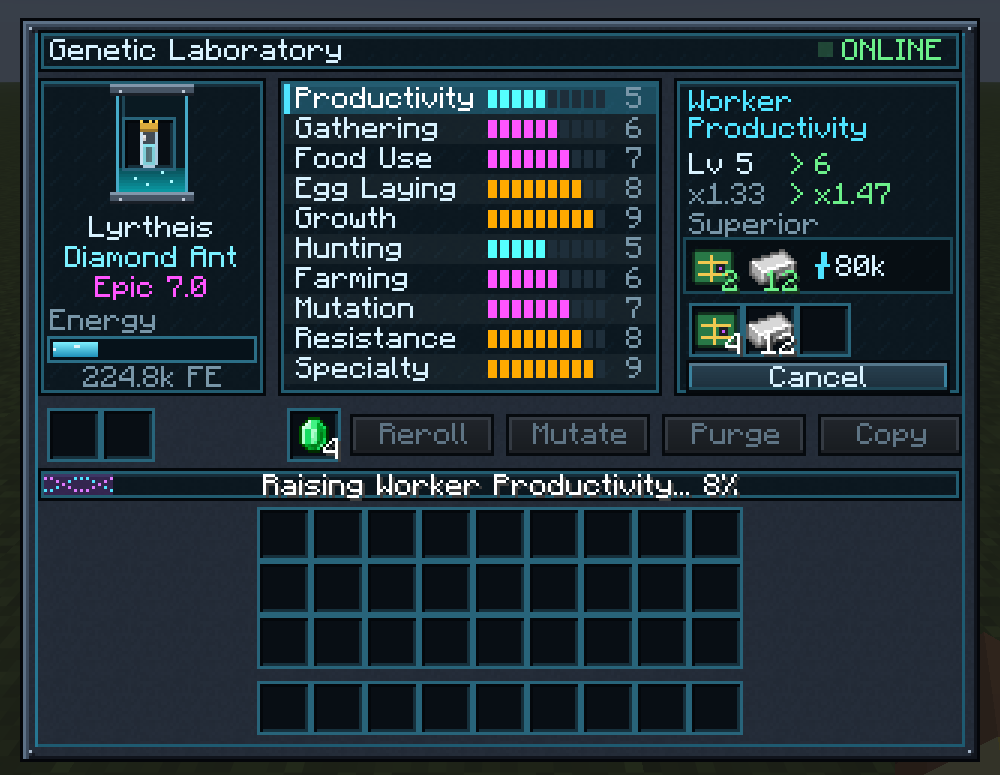
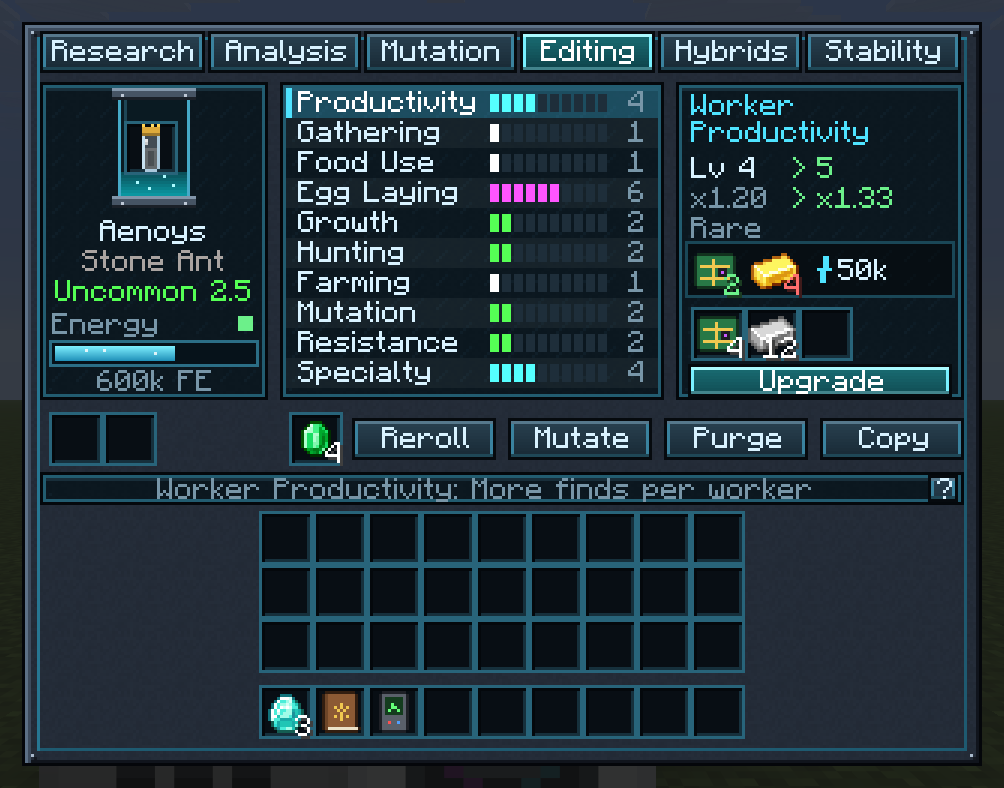
README, gallery and CurseForge page for 0.5.0: new laboratory, book and Queen Chamber screenshots

diff --git a/docs/curseforge-page.md b/docs/curseforge-page.md
@@ -35,10 +35,7 @@ Catch wild ants, raise Queens in living Formicariums, and grow colonies that min
 
 ## 2. Description (Markdown)
 
-A shorter version of the GitHub README. Images load from the repository once it is pushed.
-
-The description pasted before 2026-11-16 loads `screenshots/terrarium.png` and `screenshots/chitin-tiers.png`. Those two
-files stay in the repository for it; once this text is pasted again (it uses the `.jpg` ones), they can be deleted.
+A shorter version of the GitHub README, for both Minecraft versions. Images load from the `main` branch.
 
 ---
 ![Ant Colonies](https://raw.githubusercontent.com/Kamikadzegga/AntColonies/main/docs/images/banner.png)
@@ -56,12 +53,16 @@ into thousands of workers that mine, farm, hunt and evolve.
   and reach the endgame Wither and Dragon Ants.
 - **Genetic research.** Scan materials in the Genetic Laboratory. Discoveries are permanent, fill in the Ant
   Identification Book and unlock species mutations.
-- **Genetics.** Every Queen has ten traits and grows stronger with her colony. Breed daughters and perfect them in the
-  Genetic Laboratory.
+- **Genetics.** Every Queen has ten traits and can carry any of 31 mutations, and the game says what each one does.
+  The Genetic Laboratory has a page for every step: Research, Analysis, Mutation, Editing, Hybrids and Stability.
+- **Hybrids.** Copy a Queen's genes into a Genetic Sample and raise her daughters in another species' Queen Chamber.
+  Better Queens make a hybrid more likely, and the chamber shows the chance.
+- **Liquid Ants.** Ants that carry water, lava and other mods' fluids, and a Droplet Centrifuge that turns their
+  droplets into the real fluid.
 - **Expeditions.** Nether and End ants bring back that dimension's riches through little portals at home.
 - **Colony Connectors.** Link nearby colonies so food and items flow to where they are needed.
 - **Anthills.** Explore giant anthills in the Overworld, the Nether and the End, each shaped by its biome, with loot,
-  soldiers and a great Queen guarded by her royal soldiers. Touch their chests and the whole anthill comes after you.
+  soldiers and a great Queen guarded by her Royal Guard Ants. Touch their chests and the whole anthill comes after you.
 - **Chitin gear.** Four tiers of ant armor and tools, with jaws, spines and wings. In a full set, wild ants leave you
   alone.
 - **Building blocks.** Anthill bricks, chitin plates, amber, fungal and royal blocks, with stairs, slabs and walls.
@@ -69,7 +70,7 @@ into thousands of workers that mine, farm, hunt and evolve.
   in-game guide book.
 - **Light on servers.** Colonies are numbers, not mobs: 100 big colonies used under 5% of a server tick in testing.
 
-![Chitin armor in four tiers](https://raw.githubusercontent.com/Kamikadzegga/AntColonies/main/docs/images/screenshots/chitin-tiers.jpg)
+![The Genetic Laboratory's scanner](https://raw.githubusercontent.com/Kamikadzegga/AntColonies/main/docs/images/screenshots/laboratory-research.png)
 
 ## Getting started
 
@@ -77,11 +78,15 @@ into thousands of workers that mine, farm, hunt and evolve.
 2. Use the Tweezers on a wild ant nest until you catch a Queen.
 3. Place a **Formicarium** and put the Queen and some Ant Food in it.
 4. Add chambers as the colony grows. JEI or EMI shows every recipe.
+5. Build a **Genetic Laboratory**, scan materials in it and mutate your Queens into mineral ants.
+
+![Chitin armor in four tiers](https://raw.githubusercontent.com/Kamikadzegga/AntColonies/main/docs/images/screenshots/chitin-tiers.jpg)
 
 ## Requirements
 
-Minecraft **26.3**, NeoForge **26.3.0.101** or newer, Java 25. Install it on both the client and the server.
-Optional: JEI, EMI, Jade, MachinaOpus.
+Minecraft **26.3** with NeoForge **26.3.0.101** or newer, or Minecraft **26.1.2** with NeoForge **26.1.2.122** or newer.
+Java 25. Install it on both the client and the server.
+Optional: JEI, EMI, Jade, FTB Teams, MachinaOpus.
 
 ## Links
 
@@ -92,9 +97,9 @@ Optional: JEI, EMI, Jade, MachinaOpus.
 Free to use in any modpack (MIT License).
 ---
 
-## 3. Images (Images tab, with the carousel turned on)
+## 3. Images (Media tab)
 
-Upload these 19 from `docs/images/screenshots/`, in this order (they replace the 0.0.2 images):
+Upload these 27 from `docs/images/screenshots/`, in this order:
 
 | File | Title | Description |
 |---|---|---|
@@ -105,6 +110,15 @@ Upload these 19 from `docs/images/screenshots/`, in this order (they replace the
 | `colony-screen.png` | The colony screen | Queen, health, food and ants at a glance |
 | `jobs-screen.png` | Jobs | Ants, priority and modes for every working site |
 | `statistics-screen.png` | Statistics | The colony over the last half hour |
+| `genetics-screen.png` | Genetics | The Queen's traits and what her mutations do |
+| `laboratory-research.png` | Genetic research | Scan a material in the Genetic Laboratory and keep the discovery |
+| `laboratory-analysis.png` | Analysis | A Queen's genes and what she can become |
+| `laboratory-mutation.png` | Species Mutation | A Stone Ant Queen becomes an Iron Ant |
+| `genetic-laboratory.png` | Editing | Raise, reroll, mutate, purge and copy a Queen's genes |
+| `laboratory-hybrids.png` | Hybrids | Copy a Queen's genes for a cross |
+| `queen-chamber.png` | The Queen Chamber | Four Genetic Samples, and the hybrid's chance |
+| `identification-book.png` | The Ant Identification Book | How to play, and every species |
+| `book-research.png` | Research in the book | What you have discovered and what is still unknown |
 | `chitin-tiers.jpg` | Chitin armor | Chitin, Hardened, Infernal and Void |
 | `chitin-tiers-back.jpg` | Spines and wings | The higher tiers from behind |
 | `expedition-sites.jpg` | Expeditions | Nether and End Foraging Sites |
@@ -113,9 +127,8 @@ Upload these 19 from `docs/images/screenshots/`, in this order (they replace the
 | `giant-anthill.jpg` | A giant anthill | A structure shaped by its biome, with loot and defenders |
 | `anthill-queen-chamber.jpg` | Inside an anthill | Tunnels and chambers, and a Queen to catch |
 | `machines.jpg` | The machines | The Generator and the Droplet Centrifuge, working and idle |
-| `genetic-laboratory.png` | The Genetic Laboratory | Raise, reroll and mutate a Queen's traits |
 | `recipe-viewer.png` | JEI and EMI | Expeditions and every recipe |
-| `identification-book.png` | The Ant Identification Book | How to play, and every species |
+| `recipe-viewer-mutation.png` | Species Mutation recipes | Every species mutation and what it needs |
 | `jade.jpg` | Jade | A Formicarium's state without opening it |
 
 ## 4. Files (upload a file)
@@ -129,7 +142,7 @@ Upload these 19 from `docs/images/screenshots/`, in this order (they replace the
 | Mod loader | NeoForge |
 | Java | Java 25 |
 | Environment | Client and Server |
-| Related projects | Optional: JEI, EMI, Jade, MachinaOpus (if published) |
-| Changelog | The `[0.3.0]` section of `CHANGELOG.md` |
+| Related projects | Optional: JEI, EMI, Jade, FTB Teams, MachinaOpus |
+| Changelog | The `[0.5.0]` section of `CHANGELOG.md` |
 
-The version is 0.3.0 (`mod_version` in `gradle.properties`). `CHANGELOG.md` lists what 0.3.0 changed.
+The version is 0.5.0 (`mod_version` in `gradle.properties`). `CHANGELOG.md` lists what 0.5.0 changed.

diff --git a/docs/gallery.md b/docs/gallery.md
@@ -19,15 +19,21 @@ Screenshots of Ant Colonies. The [gameplay guide](gameplay.md) explains what the
 |:---:|:---:|
 | ![Colony screen](images/screenshots/colony-screen.png) | ![Jobs](images/screenshots/jobs-screen.png) |
 | The colony screen | Jobs: ants, priority and modes per site |
-| ![Statistics](images/screenshots/statistics-screen.png) | ![Ant Identification Book](images/screenshots/identification-book.png) |
-| Statistics: the colony over the last half hour | The Ant Identification Book: how to play, and every species |
+| ![Statistics](images/screenshots/statistics-screen.png) | ![Genetics](images/screenshots/genetics-screen.png) |
+| Statistics: the colony over the last half hour | Genetics: the Queen's traits and what her mutations do |
+| ![Ant Identification Book](images/screenshots/identification-book.png) | ![Genetic Research in the book](images/screenshots/book-research.png) |
+| The Ant Identification Book: how to play, and every species | Its Genetic Research section: what you have discovered and what is still unknown |
 
-## Machines
+## Genetics
 
 | | |
 |:---:|:---:|
-| ![Generator and Droplet Centrifuge](images/screenshots/machines.jpg) | ![Genetic Laboratory](images/screenshots/genetic-laboratory.png) |
-| The Generator and the Droplet Centrifuge, working and idle | The Genetic Laboratory at work |
+| ![The scanner](images/screenshots/laboratory-research.png) | ![Analysis](images/screenshots/laboratory-analysis.png) |
+| Research: scan a material in the Genetic Laboratory and keep the discovery | Analysis: a Queen's genes and what she can become |
+| ![Species Mutation](images/screenshots/laboratory-mutation.png) | ![Editing](images/screenshots/genetic-laboratory.png) |
+| Mutation: a Stone Ant Queen becomes an Iron Ant | Editing: raise, reroll, mutate, purge and copy a Queen's genes |
+| ![Hybrids](images/screenshots/laboratory-hybrids.png) | ![Queen Chamber](images/screenshots/queen-chamber.png) |
+| Hybrids: copy a Queen's genes for a cross | The Queen Chamber: four Genetic Samples, and the hybrid's chance |
 
 ## The world
 
@@ -37,12 +43,14 @@ Screenshots of Ant Colonies. The [gameplay guide](gameplay.md) explains what the
 | A giant anthill | Inside it |
 | ![Chitin armor tiers](images/screenshots/chitin-tiers.jpg) | ![Chitin armor from behind](images/screenshots/chitin-tiers-back.jpg) |
 | Chitin, Hardened, Infernal and Void armor | Spines and a Queen's wings on the back |
-| ![Building blocks](images/screenshots/building-blocks.jpg) | |
-| Building blocks: anthill, chitin, amber, fungal and royal | |
+| ![Building blocks](images/screenshots/building-blocks.jpg) | ![Generator and Droplet Centrifuge](images/screenshots/machines.jpg) |
+| Building blocks: anthill, chitin, amber, fungal and royal | The Generator and the Droplet Centrifuge, working and idle |
 
 ## Other mods
 
 | | |
 |:---:|:---:|
-| ![Recipe viewer](images/screenshots/recipe-viewer.png) | ![Jade tooltip](images/screenshots/jade.jpg) |
-| Expeditions and the whole progression in JEI and EMI | A Formicarium at a glance with Jade |
+| ![Recipe viewer](images/screenshots/recipe-viewer.png) | ![Species Mutation recipes](images/screenshots/recipe-viewer-mutation.png) |
+| Expeditions and the whole progression in JEI and EMI | Every species mutation and what it needs |
+| ![Jade tooltip](images/screenshots/jade.jpg) | |
+| A Formicarium at a glance with Jade | |

diff --git a/README.md b/README.md
@@ -28,8 +28,10 @@ that mine, farm, hunt and evolve.
   and reach the endgame Wither and Dragon Ants.
 - **Genetic research.** Scan materials in the Genetic Laboratory. Discoveries are permanent, fill in the Ant
   Identification Book and unlock species mutations.
-- **Genetics.** Every Queen has ten traits and can carry any of 31 mutations. The Genetic Laboratory upgrades, rerolls
-  and copies them.
+- **Genetics.** Every Queen has ten traits and can carry any of 31 mutations, and the game says what each one does. The
+  Genetic Laboratory has a page for every step: Research, Analysis, Mutation, Editing, Hybrids and Stability.
+- **Hybrids.** Copy a Queen's genes into a Genetic Sample and raise her daughters in another species' Queen Chamber.
+  Better Queens make a hybrid more likely, and the chamber shows the chance.
 - **Liquid Ants.** Ants that carry water, lava and other mods' fluids, and a Droplet Centrifuge that turns their
   droplets into the real fluid.
 - **The Nether and the End.** Expeditions through little portals at home, Colony Connectors that share food and items,
@@ -50,6 +52,8 @@ The [gameplay guide](docs/gameplay.md) explains all of it.
 | A living Formicarium | The colony screen |
 | ![Vertical Formicarium](docs/images/screenshots/vertical-formicarium.jpg) | ![Liquid Ants](docs/images/screenshots/liquid-ants.jpg) |
 | A colony built upward: one nest behind glass | Liquid Ants and the Droplet Centrifuge |
+| ![The Genetic Laboratory's scanner](docs/images/screenshots/laboratory-research.png) | ![Species Mutation](docs/images/screenshots/laboratory-mutation.png) |
+| Genetic research: scan a material, keep the discovery | Species Mutation: a Stone Ant Queen becomes an Iron Ant |
 | ![Giant anthill](docs/images/screenshots/giant-anthill.jpg) | ![Chitin armor tiers](docs/images/screenshots/chitin-tiers.jpg) |
 | A giant anthill | Chitin, Hardened, Infernal and Void armor |
 
